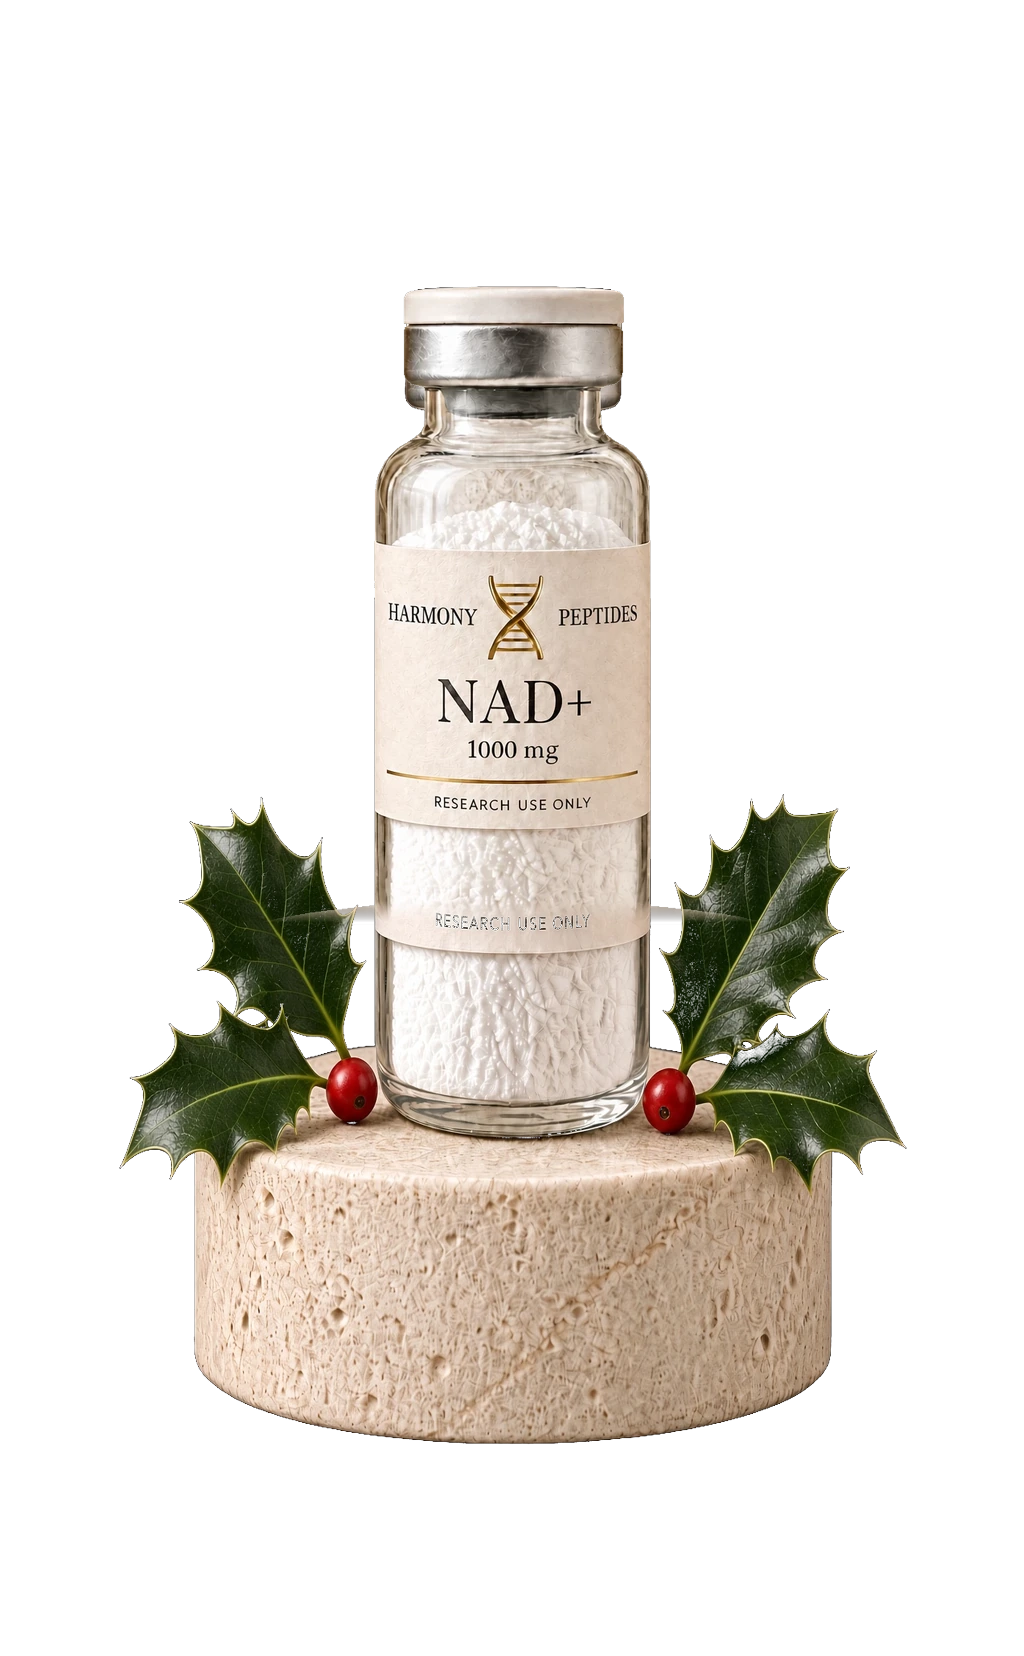
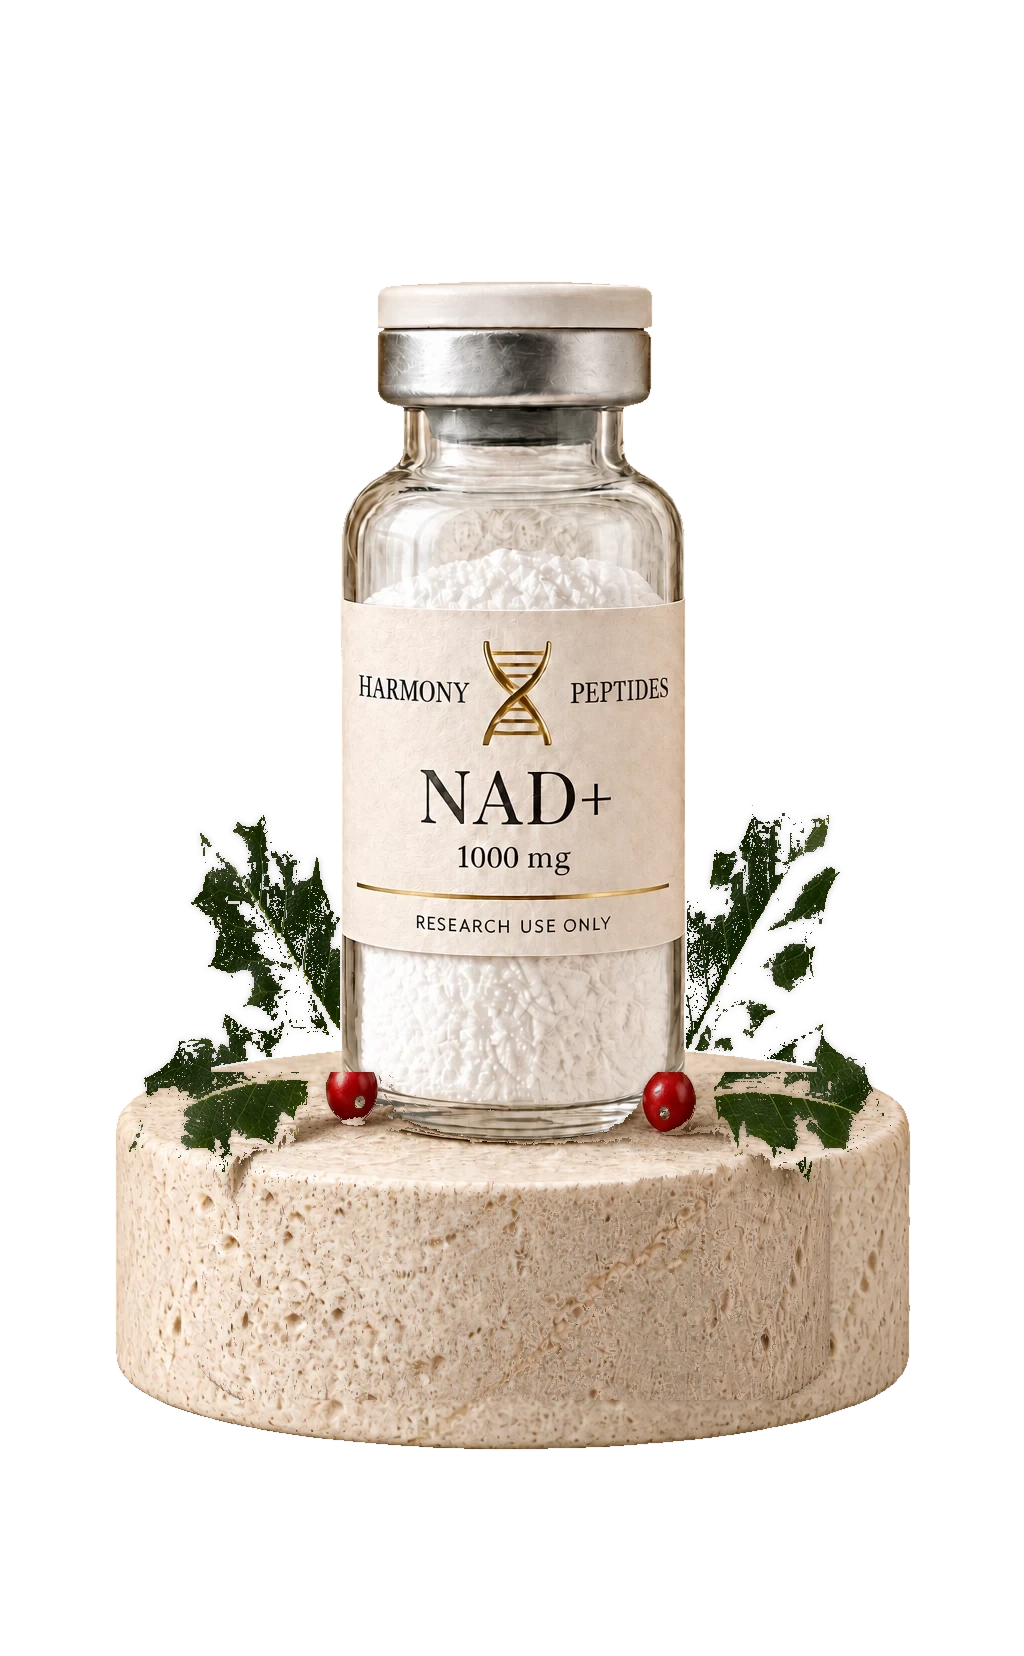
Use the original vial only, with holly on the stone.
Removes the second RESEARCH USE ONLY band and the stretched glass from the stacked bottles.

Changed region(s): [[0.0938, 0.154, 0.9062, 0.8931]]

diff --git a/index.html b/index.html
@@ -821,7 +821,7 @@
         overflow: hidden;
       }
       #top > main > section:first-child > figure > img {
-        content: url("/assets/hero-vial-plinth.webp?v=13");
+        content: url("/assets/hero-vial-plinth.webp?v=14");
         object-fit: contain !important;
         object-position: center 60% !important;
         height: auto !important;
